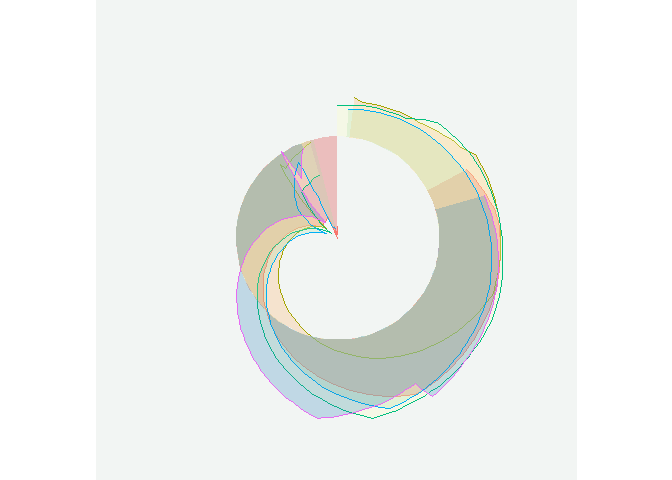
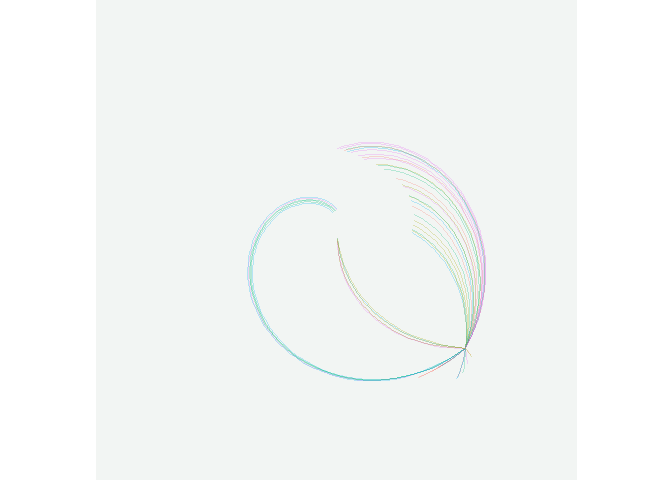
Update defaults, support extra args

Changed region(s): [[0.3438, 0.1875, 0.75, 0.875], [0.5, 0.5, 0.5312, 0.625], [0.5312, 0.625, 0.5625, 0.6562]]

diff --git a/README.md b/README.md
@@ -41,22 +41,23 @@ library(umart)
 # Data Generation
 
 ``` r
-r_x <- generate_data(mean = 233, sd = 0.0233)
-r_y <- generate_data(mean = 520, sd = 0.0520)
+r_x <- generate_data(mean = 20.5, sd = 0.2)
+r_y <- generate_data(mean = 10.5, sd = 0.1)
 df <- data.frame(x = r_x, y=r_y, group = rep(paste0("grp_", 1:5), 10))
 ```
 
 # Run UMAP
 
 ``` r
-umap_df <- run_umap(df[, -3],neighbors = 20, seed = 520)
+umap_df <- run_umap(df[, -3],neighbors = 5,  seed = 520)
 ```
 
 # Generate umart
 
 ``` r
 generate_umart(umap_df, group_col = df$group,
-               bg_color = "#f2f5f3", use_geom = "geom_area")
+               bg_color = "#f2f5f3", use_geom = "geom_segment",
+               xend = 0.5, yend = 12)
 ```
 
 ![](README_files/figure-gfm/generate_art-1.png)<!-- -->
@@ -64,11 +65,12 @@ generate_umart(umap_df, group_col = df$group,
 # Many neighbors
 
 ``` r
-umaps <- run_umap(df[, -3],neighbors = 2:7, seed = 2022)
-groups <- rep(paste0("g_", 1:5), 60)
+umaps <- run_umap(df[, -3],neighbors = 2:5, seed = 20)
+groups <- rep(paste0("g_", 1:5), 40)
 
-generate_umart(umaps, group_col = groups, opacity = 0.6,
-               bg_color = "#e6c5d3", use_geom = "geom_path"
+generate_umart(umaps, group_col = groups, opacity = 0.15,
+               bg_color = "#f6feff", use_geom = "geom_col",
+               use_palette = "Blues"
                ) 
 ```
 

diff --git a/NEWS.md b/NEWS.md
@@ -1,5 +1,8 @@
 # umart 0.1.1.9000
 
+
+* `generate_umart` now supports custom geoms. See examples for usage.
+
 * `run_umap` now supports numeric vectors. 
 
 * Added a `NEWS.md` file to track changes to the package.
